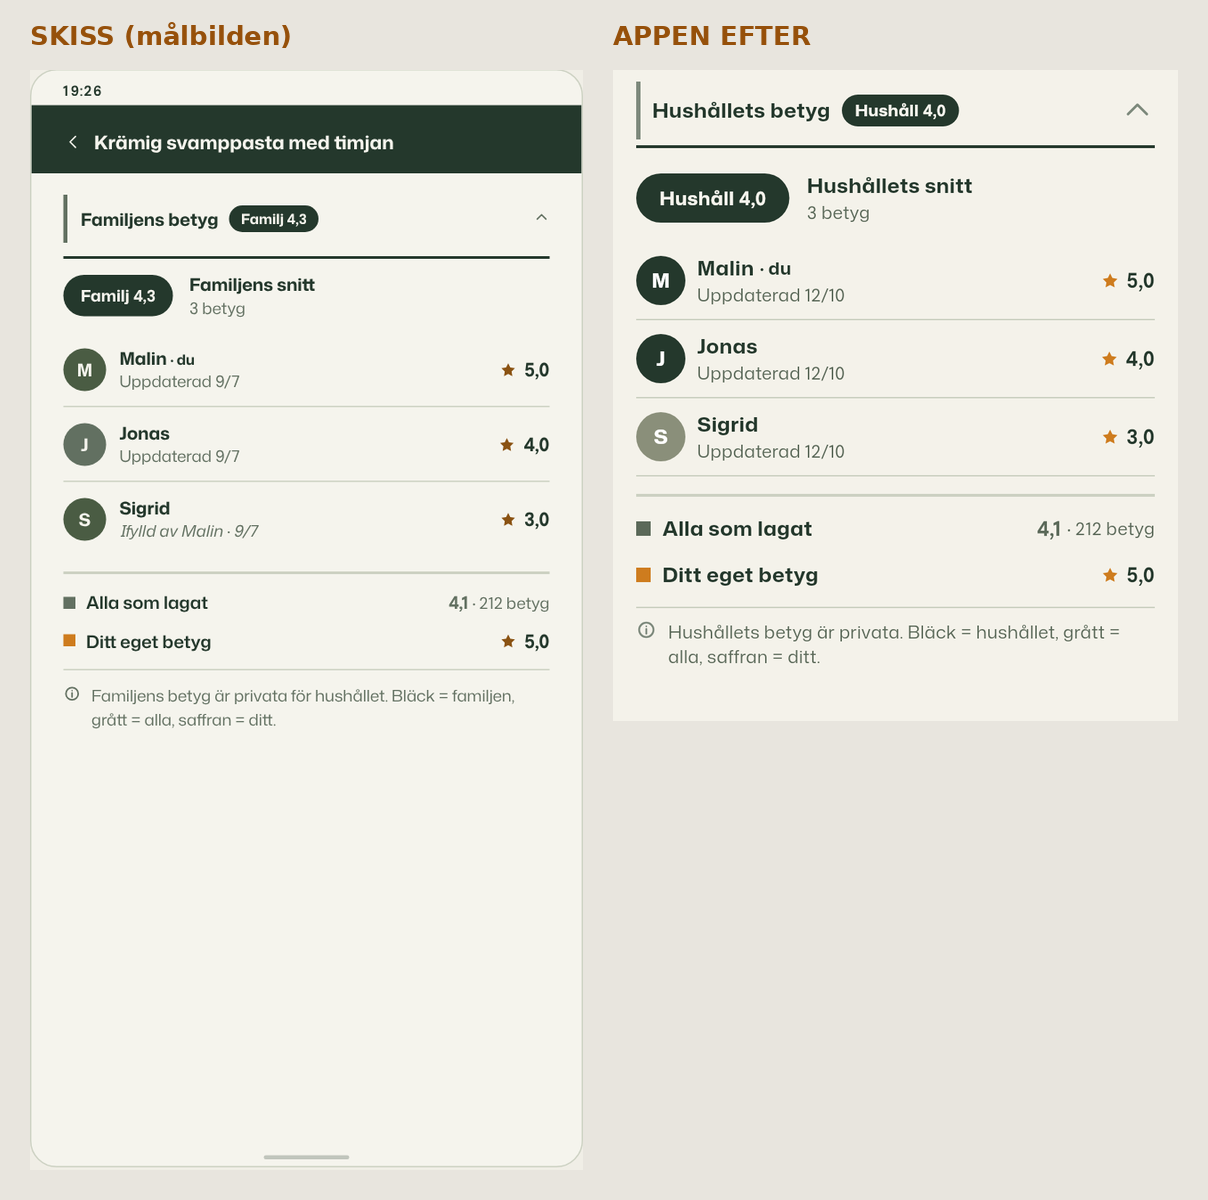
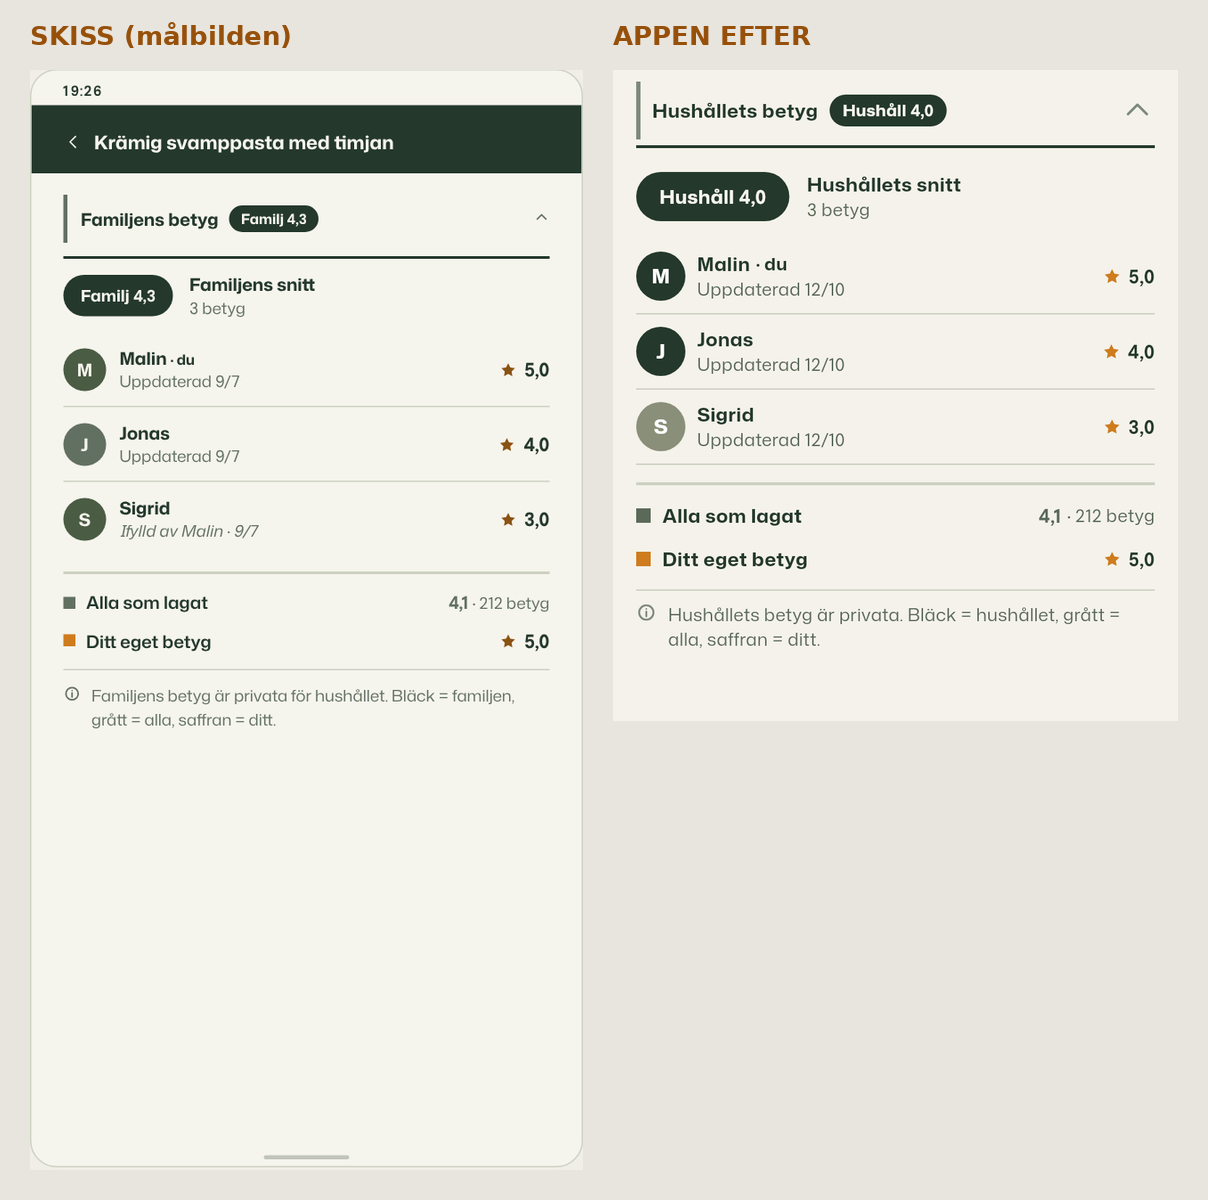
Betygsöversikten använder befintlig fet textstil i stället för egen textvikt
Arkitekturtestet direct_font_weights gick över sitt tak (6 mot 5) av den egna
fet-stilen i vyn. Vyn använder nu bodySmallBold, och bild 22 är omgjord med den.

Claude-Session: https://claude.ai/code/session_01DvrCDEcDaCCoCNLw7qcTFc

diff --git a/lib/views/family/family_rating_breakdown.dart b/lib/views/family/family_rating_breakdown.dart
@@ -127,7 +127,7 @@ class _FamilyRatingBreakdownState extends State<FamilyRatingBreakdown> {
                   const SizedBox(width: AppDimensions.space8),
                   Text(
                     l10n.familyRatingSectionTitle,
-                    style: _strong.copyWith(
+                    style: AppTextStyles.bodySmallBold.copyWith(
                       color: cs.onSurface,
                     ),
                   ),
@@ -192,7 +192,7 @@ class _FamilyRatingBreakdownState extends State<FamilyRatingBreakdown> {
             children: [
               Text(
                 l10n.familyRatingAverageLabel,
-                style: _strong,
+                style: AppTextStyles.bodySmallBold,
               ),
               Text(
                 l10n.familyRatingCount(vm.familyCount),
@@ -251,7 +251,7 @@ class _FamilyRatingBreakdownState extends State<FamilyRatingBreakdown> {
                             Flexible(
                               child: Text(
                                 row.member.displayName,
-                                style: _strong,
+                                style: AppTextStyles.bodySmallBold,
                                 overflow: TextOverflow.ellipsis,
                               ),
                             ),
@@ -330,7 +330,7 @@ class _FamilyRatingBreakdownState extends State<FamilyRatingBreakdown> {
                 children: [
                   Text(
                     communityAvg.toStringAsFixed(1).replaceAll('.', ','),
-                    style: _strong.copyWith(
+                    style: AppTextStyles.bodySmallBold.copyWith(
                       color: cs.onSurfaceVariant,
                     ),
                   ),
@@ -407,7 +407,7 @@ class _FamilyRatingBreakdownState extends State<FamilyRatingBreakdown> {
             const SizedBox(width: AppDimensions.space8),
             Text(
               label,
-              style: _strong,
+              style: AppTextStyles.bodySmallBold,
             ),
           ],
         ),
@@ -438,12 +438,9 @@ class _StarNumber extends StatelessWidget {
         const SizedBox(width: AppDimensions.space4),
         Text(
           value.toStringAsFixed(1).replaceAll('.', ','),
-          style: _strong.copyWith(color: cs.onSurface),
+          style: AppTextStyles.bodySmallBold.copyWith(color: cs.onSurface),
         ),
       ],
     );
   }
 }
-
-TextStyle get _strong =>
-    AppTextStyles.labelLarge.copyWith(fontWeight: FontWeight.w700);

diff --git a/design/fas0/andrade-filer.md b/design/fas0/andrade-filer.md
@@ -652,7 +652,7 @@ Därtill `fas0/andrade-filer.md`, som inte kan bära sin egen hash.
[8 lines of base64/hex data omitted]
